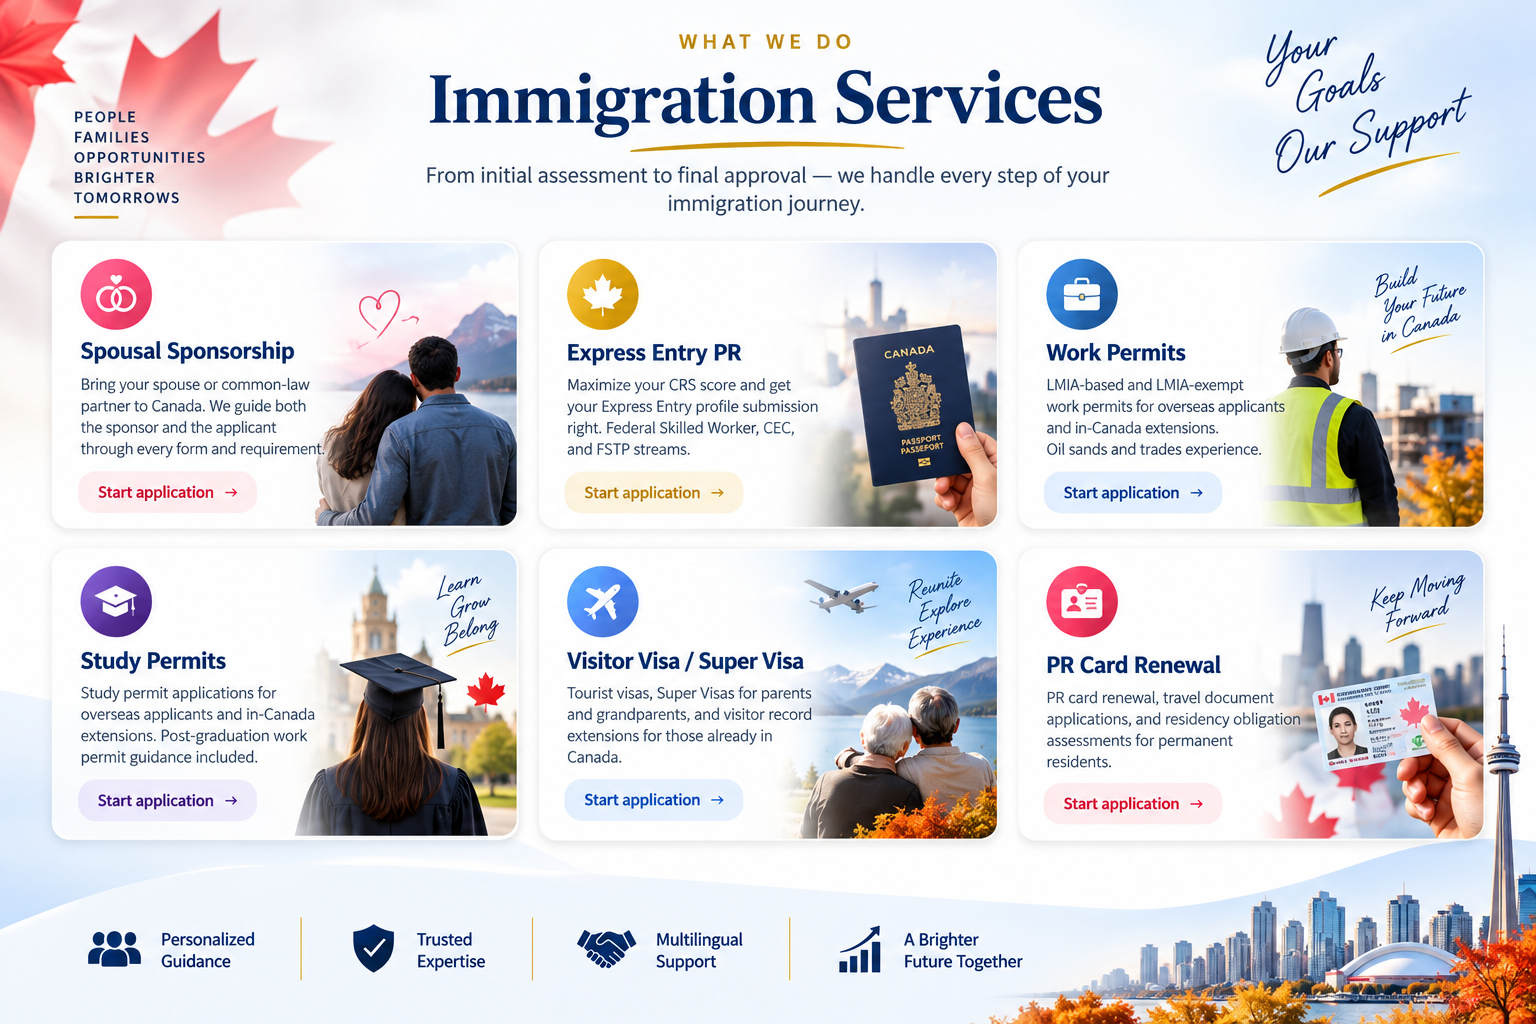
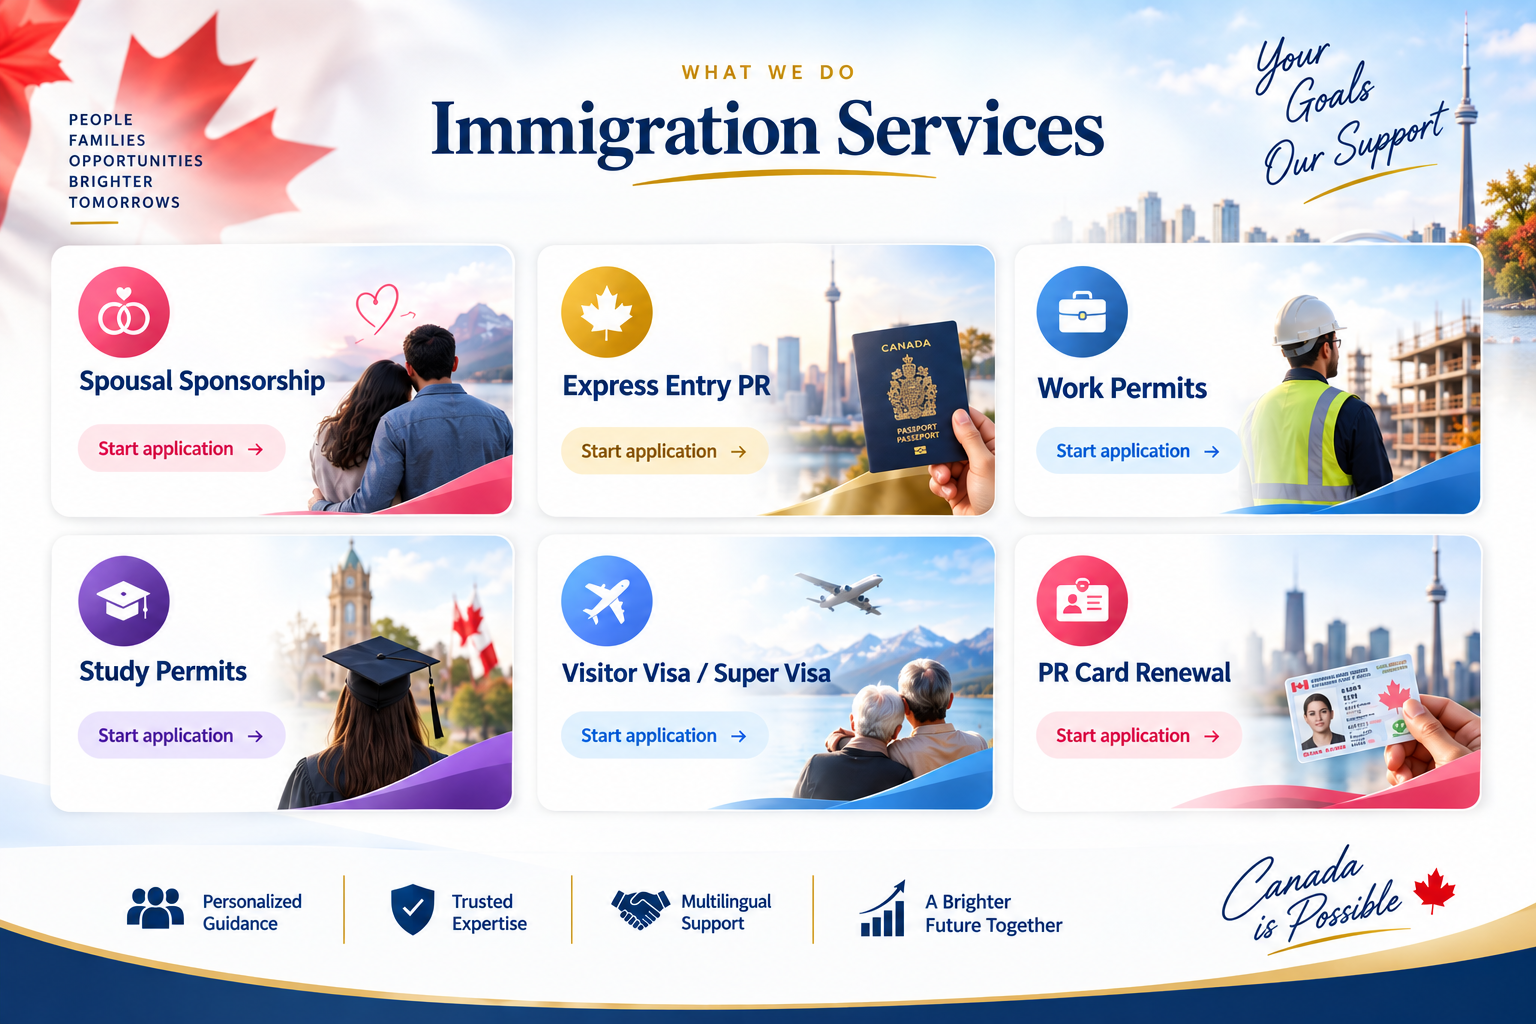
Update services section with revised card image
Swap in the updated section-2-image.png (shorter cards without
description paragraphs) and re-align the six intake link hotspots to
match the new card boundaries.

diff --git a/public/index.html b/public/index.html
@@ -177,12 +177,12 @@
 <div class="services-section" id="services">
   <div class="hero-image-wrap" style="max-width:1536px">
     <img src="../section-2-image.png" alt="Immigration Services — Spousal Sponsorship, Express Entry PR, Work Permits, Study Permits, Visitor Visa / Super Visa, PR Card Renewal" class="hero-cover-img">
-    <a href="intake.html?type=spousal_spouses" class="hero-hotspot hero-hotspot-light" style="left:3%;top:24%;width:31%;height:26%" aria-label="Spousal Sponsorship — Start application"></a>
-    <a href="intake.html?type=express_entry" class="hero-hotspot hero-hotspot-light" style="left:35%;top:24%;width:30%;height:26%" aria-label="Express Entry PR — Start application"></a>
-    <a href="intake.html?type=work_permit_overseas" class="hero-hotspot hero-hotspot-light" style="left:66%;top:24%;width:31%;height:26%" aria-label="Work Permits — Start application"></a>
-    <a href="intake.html?type=study_permit_overseas" class="hero-hotspot hero-hotspot-light" style="left:3%;top:55%;width:31%;height:27%" aria-label="Study Permits — Start application"></a>
-    <a href="intake.html?type=trv_supervisa" class="hero-hotspot hero-hotspot-light" style="left:35%;top:55%;width:30%;height:27%" aria-label="Visitor Visa / Super Visa — Start application"></a>
-    <a href="intake.html?type=pr_card_renewal" class="hero-hotspot hero-hotspot-light" style="left:66%;top:55%;width:31%;height:27%" aria-label="PR Card Renewal — Start application"></a>
+    <a href="intake.html?type=spousal_spouses" class="hero-hotspot hero-hotspot-light" style="left:3%;top:24%;width:31%;height:27%" aria-label="Spousal Sponsorship — Start application"></a>
+    <a href="intake.html?type=express_entry" class="hero-hotspot hero-hotspot-light" style="left:35%;top:24%;width:30%;height:27%" aria-label="Express Entry PR — Start application"></a>
+    <a href="intake.html?type=work_permit_overseas" class="hero-hotspot hero-hotspot-light" style="left:66%;top:24%;width:31%;height:27%" aria-label="Work Permits — Start application"></a>
+    <a href="intake.html?type=study_permit_overseas" class="hero-hotspot hero-hotspot-light" style="left:3%;top:54%;width:31%;height:27%" aria-label="Study Permits — Start application"></a>
+    <a href="intake.html?type=trv_supervisa" class="hero-hotspot hero-hotspot-light" style="left:35%;top:54%;width:30%;height:27%" aria-label="Visitor Visa / Super Visa — Start application"></a>
+    <a href="intake.html?type=pr_card_renewal" class="hero-hotspot hero-hotspot-light" style="left:66%;top:54%;width:31%;height:27%" aria-label="PR Card Renewal — Start application"></a>
   </div>
 </div>
 
